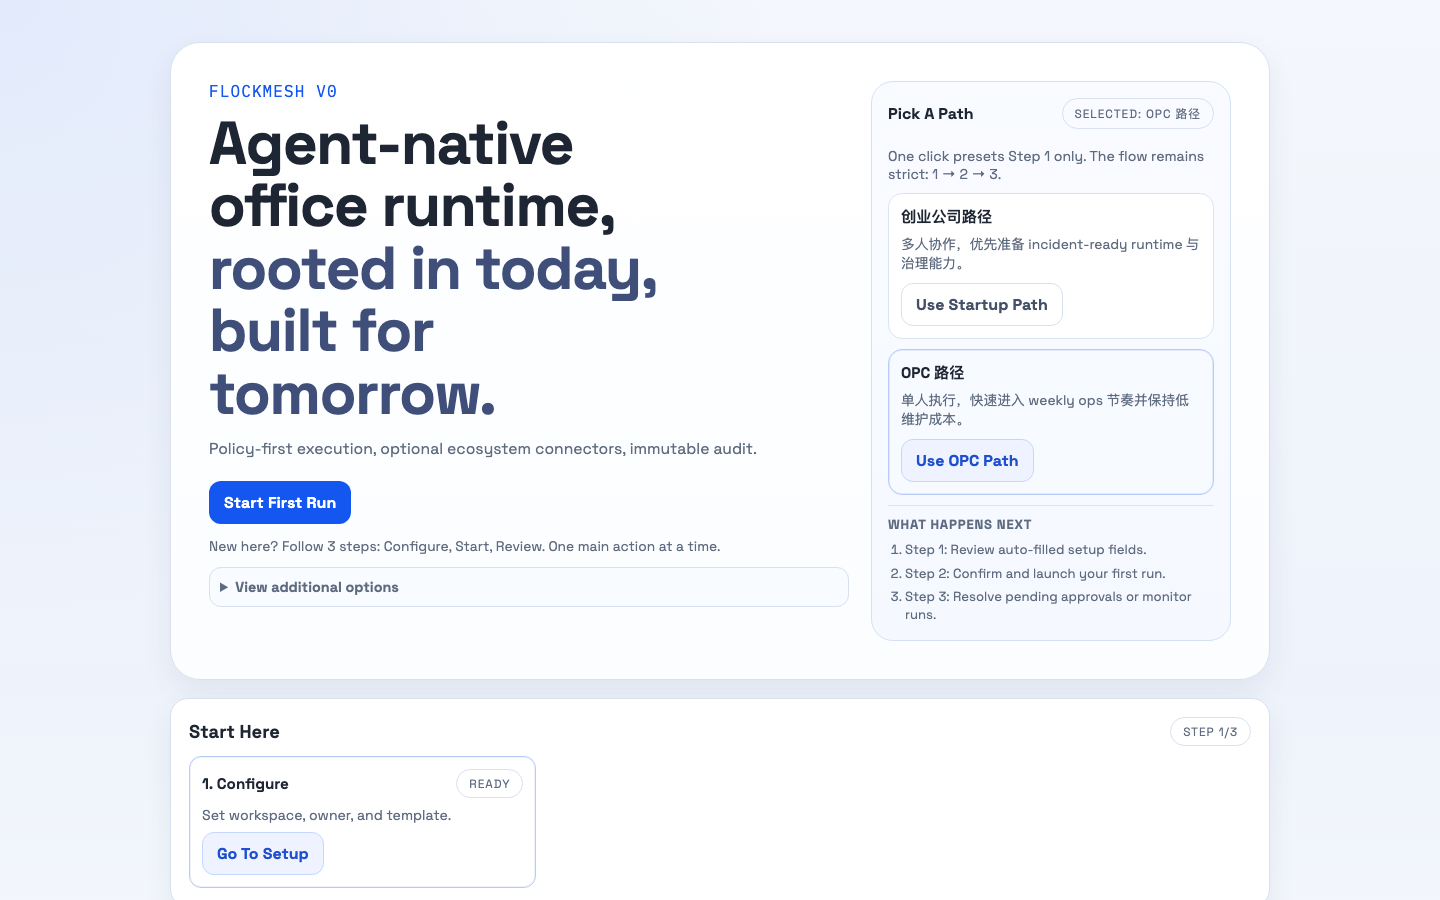
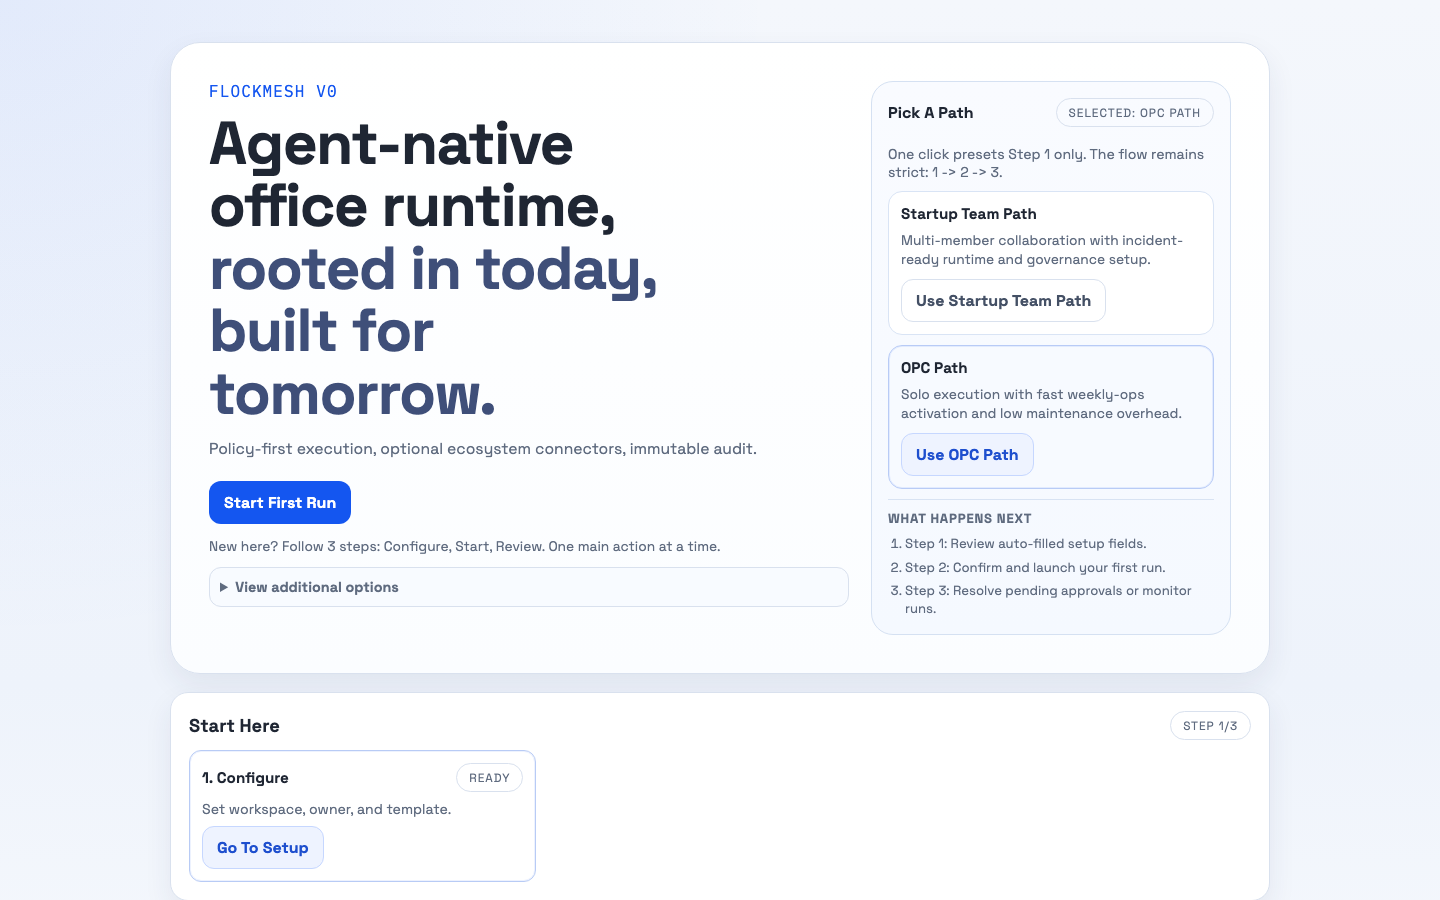
refine: switch starter path experience to English copy

Changed region(s): [[0.5938, 0.1244, 0.8438, 0.7156], [0.125, 0.7467, 0.875, 0.9956], [0.3125, 0.84, 0.375, 0.8711]]

diff --git a/public/index.html b/public/index.html
@@ -49,15 +49,15 @@
               <h2>Pick A Path</h2>
               <span id="journeyPresetTag" class="tag">recommended: opc</span>
             </div>
-            <p class="run-meta">One click presets Step 1 only. The flow remains strict: 1 → 2 → 3.</p>
+            <p class="run-meta">One click presets Step 1 only. The flow remains strict: 1 -> 2 -> 3.</p>
             <article class="hero-path-card">
-              <h3>创业公司路径</h3>
-              <p>多人协作，优先准备 incident-ready runtime 与治理能力。</p>
-              <button id="heroStartupPathBtn" class="btn btn-secondary">Use Startup Path</button>
+              <h3>Startup Team Path</h3>
+              <p>Multi-member collaboration with incident-ready runtime and governance setup.</p>
+              <button id="heroStartupPathBtn" class="btn btn-secondary">Use Startup Team Path</button>
             </article>
             <article class="hero-path-card">
-              <h3>OPC 路径</h3>
-              <p>单人执行，快速进入 weekly ops 节奏并保持低维护成本。</p>
+              <h3>OPC Path</h3>
+              <p>Solo execution with fast weekly-ops activation and low maintenance overhead.</p>
               <button id="heroOpcPathBtn" class="btn btn-ghost">Use OPC Path</button>
             </article>
             <div class="hero-path-preview">

diff --git a/public/ui.js b/public/ui.js
@@ -52,7 +52,7 @@ const ONE_PERSON_QUICKSTART_TEMPLATES = Object.freeze({
 
 const JOURNEY_PATH_PRESETS = Object.freeze({
   startup: Object.freeze({
-    label: '创业公司路径',
+    label: 'Startup Team Path',
     workspaceId: 'wsp_startup_launch',
     ownerId: 'usr_founder_ops',
     templateId: 'incident_response',
@@ -60,7 +60,7 @@ const JOURNEY_PATH_PRESETS = Object.freeze({
     idempotencyPrefix: 'idem_startup_first_run'
   }),
   opc: Object.freeze({
-    label: 'OPC 路径',
+    label: 'OPC Path',
     workspaceId: 'wsp_one_person_company',
     ownerId: 'usr_solo_builder',
     templateId: 'weekly_ops_sync',
